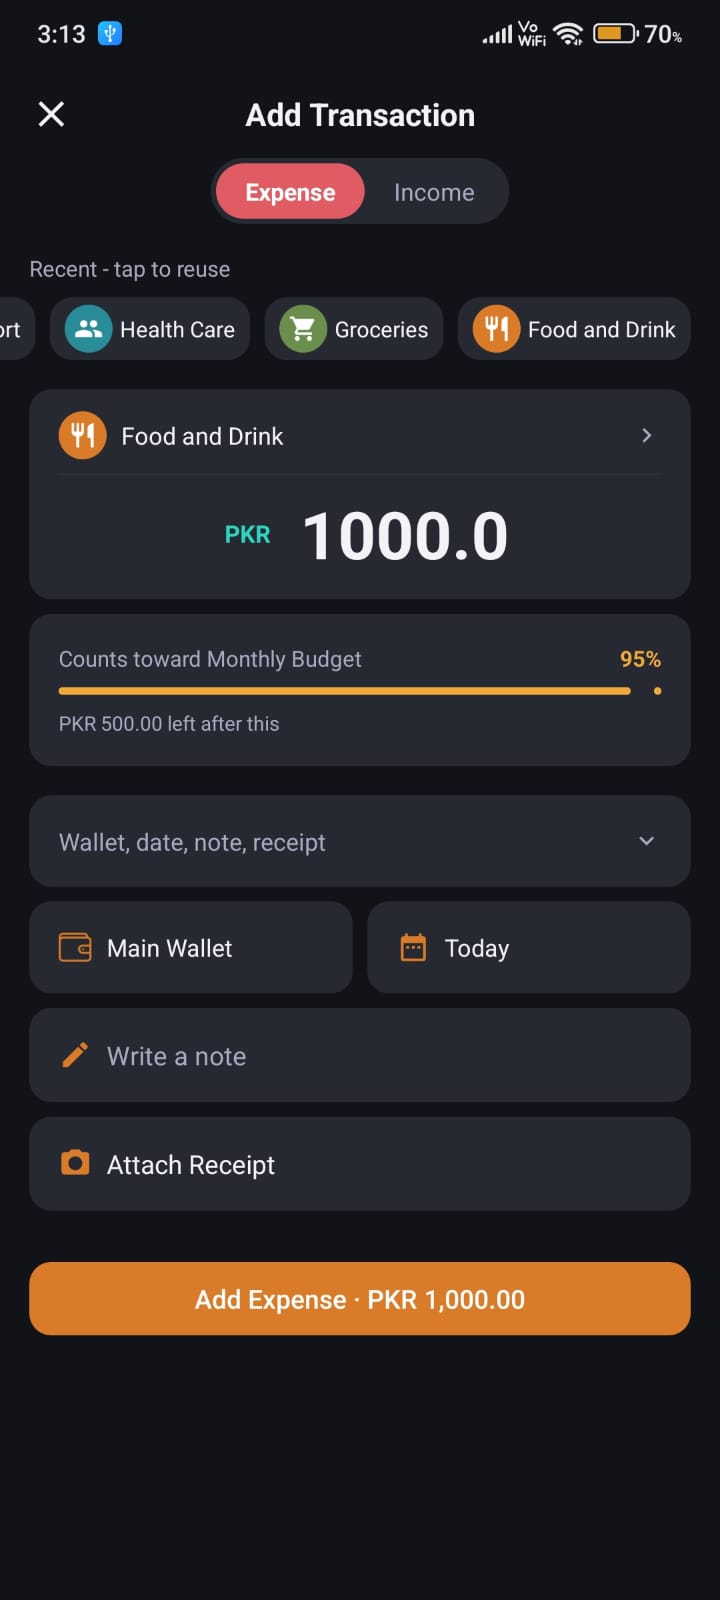
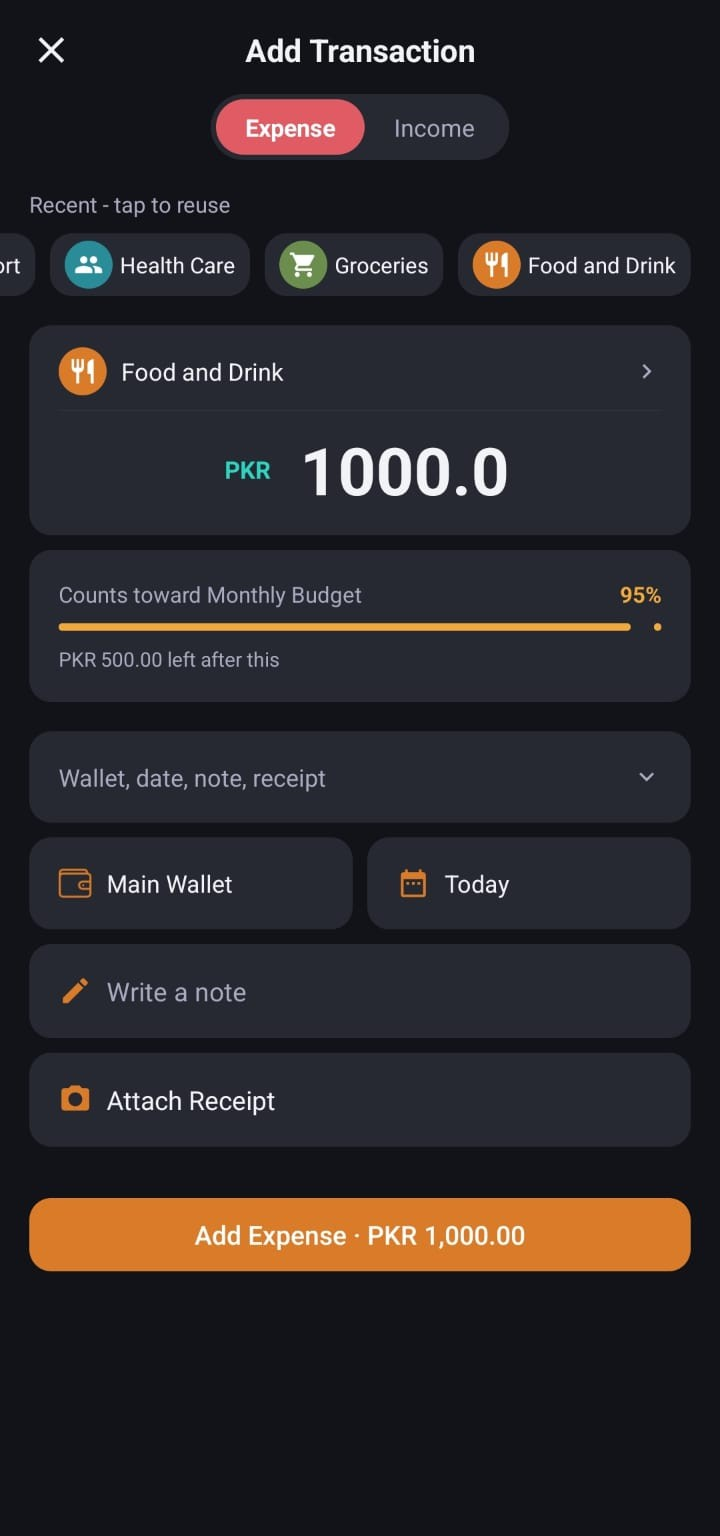
Crop status bar from screenshots, add Add Budget screen
Crop the OS status bar (time/signal/battery icons) off the top of every
screenshot for a cleaner marketing look, and add the Add Budget screen
side-by-side with the Budget list in the Budgets feature section so it
shows the full create-then-track flow.

Changed region(s): [[0.0, 0.0, 0.9778, 0.8438], [0.6722, 0.0, 0.9472, 0.0312], [0.0611, 0.0, 0.1833, 0.0938]]

diff --git a/index.html b/index.html
@@ -167,11 +167,22 @@
             <li>Alerts screen tells you when you're near or over</li>
           </ul>
         </div>
-        <div class="feature-visual">
-          <div class="mini-phone">
-            <div class="mini-screen">
-              <img src="assets/screenshots/budget.jpg" alt="Coinly Budget screen showing a Monthly Budget expanded with its per-category breakdown" loading="lazy">
+        <div class="feature-visual dual">
+          <div class="mini-phone-group">
+            <div class="mini-phone">
+              <div class="mini-screen">
+                <img src="assets/screenshots/add-budget.jpg" alt="Coinly Add Budget screen showing weekly/monthly toggle, budget amount, and category selection" loading="lazy">
+              </div>
             </div>
+            <span class="mini-caption">Create a budget</span>
+          </div>
+          <div class="mini-phone-group">
+            <div class="mini-phone">
+              <div class="mini-screen">
+                <img src="assets/screenshots/budget.jpg" alt="Coinly Budget screen showing a Monthly Budget expanded with its per-category breakdown" loading="lazy">
+              </div>
+            </div>
+            <span class="mini-caption">Watch it in one place</span>
           </div>
         </div>
       </div>

diff --git a/css/style.css b/css/style.css
@@ -326,6 +326,14 @@ img { max-width: 100%; display: block; }
   background: #000;
 }
 
+.feature-visual.dual { flex-wrap: wrap; gap: 22px; }
+.mini-phone-group { display: flex; flex-direction: column; align-items: center; gap: 12px; }
+.mini-caption { font-size: 0.8rem; font-weight: 700; color: var(--text-secondary); }
+.feature-visual.dual .mini-phone { width: 175px; }
+@media (max-width: 480px) {
+  .feature-visual.dual .mini-phone { width: 138px; }
+}
+
 /* ===== Pricing ===== */
 .pricing { padding: 40px 24px 100px; }
 .pricing-grid { display: grid; grid-template-columns: repeat(3, 1fr); gap: 24px; }
